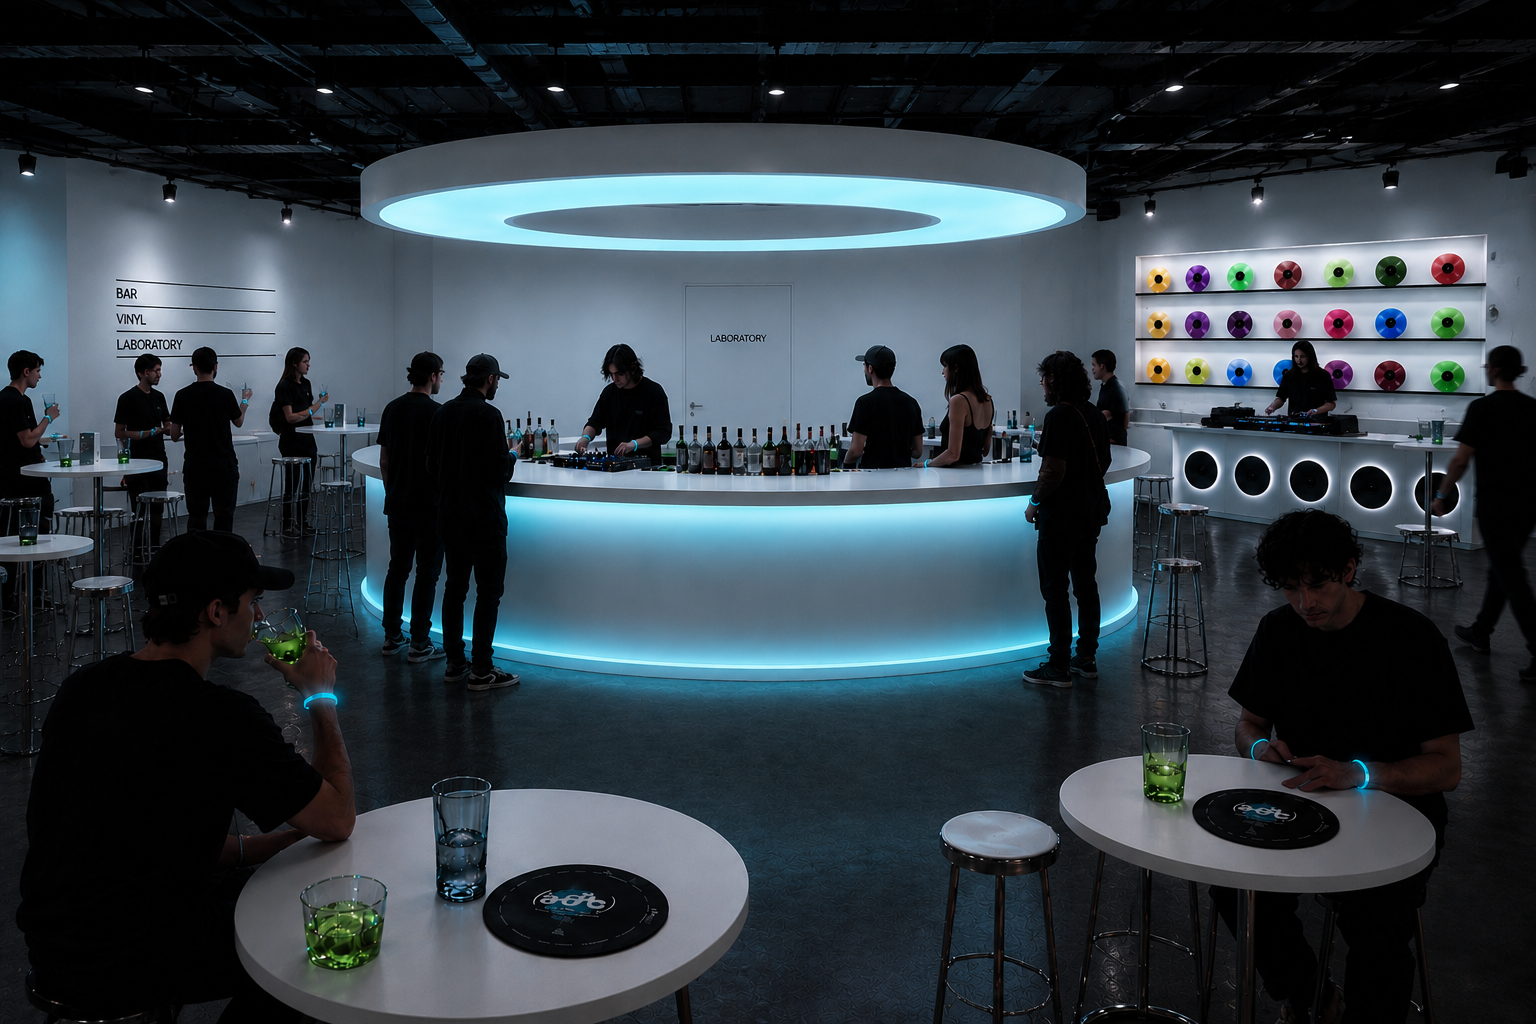
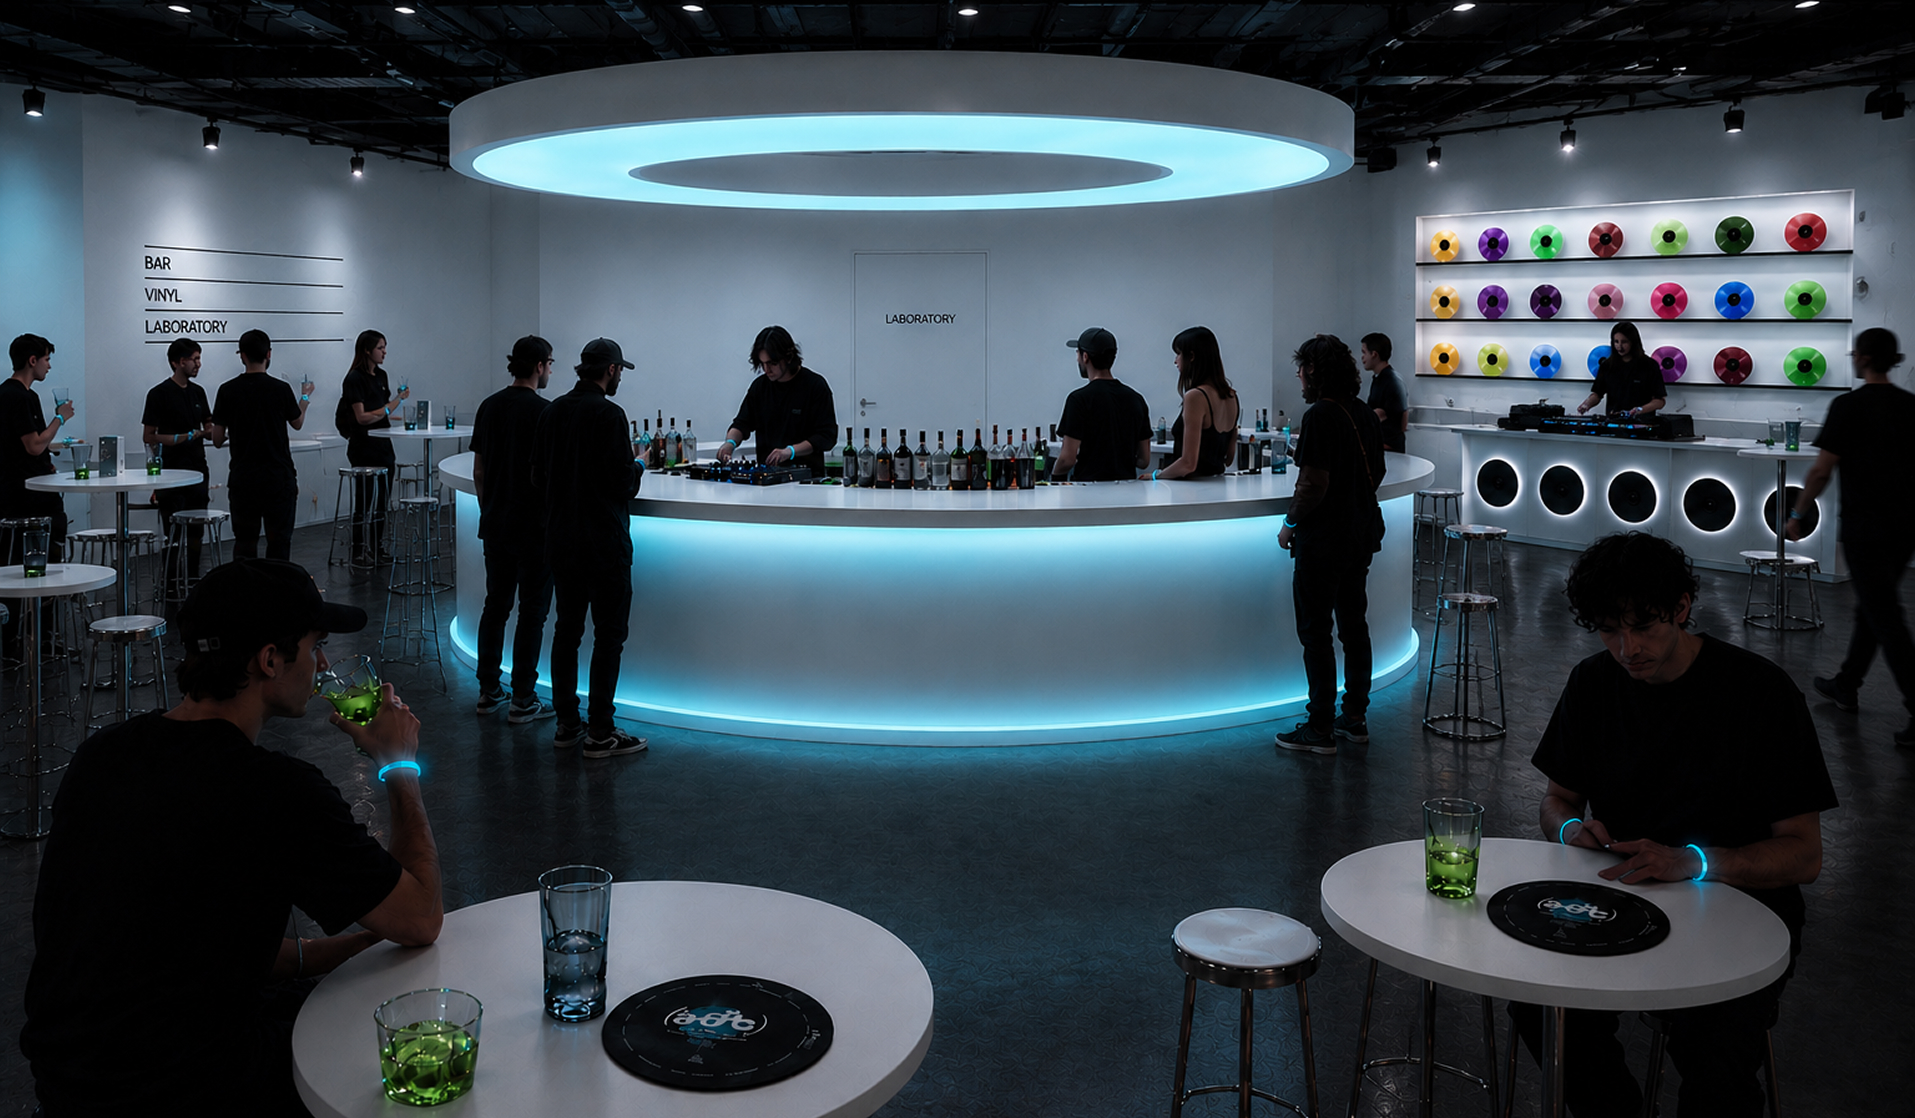
.

diff --git a/javascripts/sketch.js b/javascripts/sketch.js
@@ -172,10 +172,9 @@ class Sketch {
   addObjects() {
     this.regenerateGrid();
 
-    const imageTexture =
-    new THREE.TextureLoader().load(
-      this.img.src
-    );
+
+    const imageTexture = new THREE.TextureLoader().load(this.img.src);
+imageTexture.colorSpace = THREE.SRGBColorSpace;
 
     this.material = new THREE.ShaderMaterial({
       side: THREE.DoubleSide,

diff --git a/stylesheets/layout.css b/stylesheets/layout.css
@@ -153,14 +153,14 @@ color: #00EFF8;
   overflow: hidden;
 }
 
+
 .cover-image {
   position: absolute;
   inset: 0;
-
   width: 100%;
   height: 100%;
+  z-index: 1;
 }
-
 
 .cover-image canvas {
   width: 100%;
